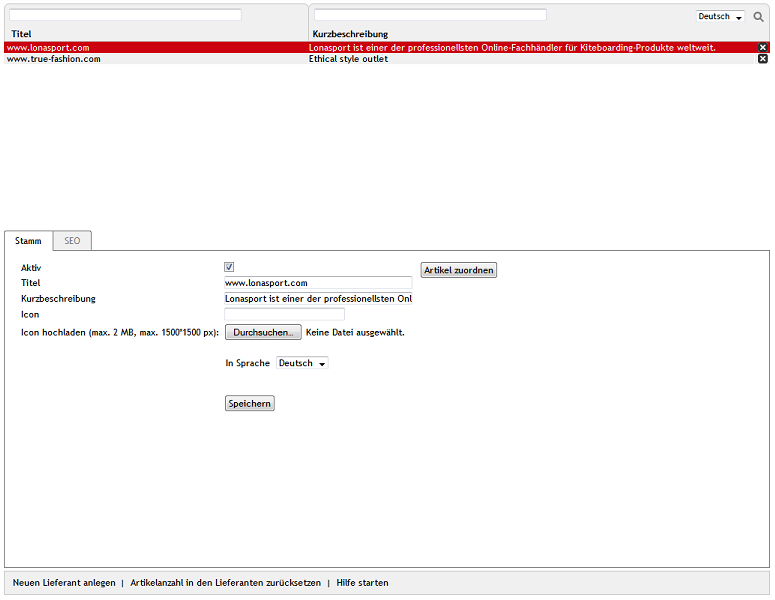
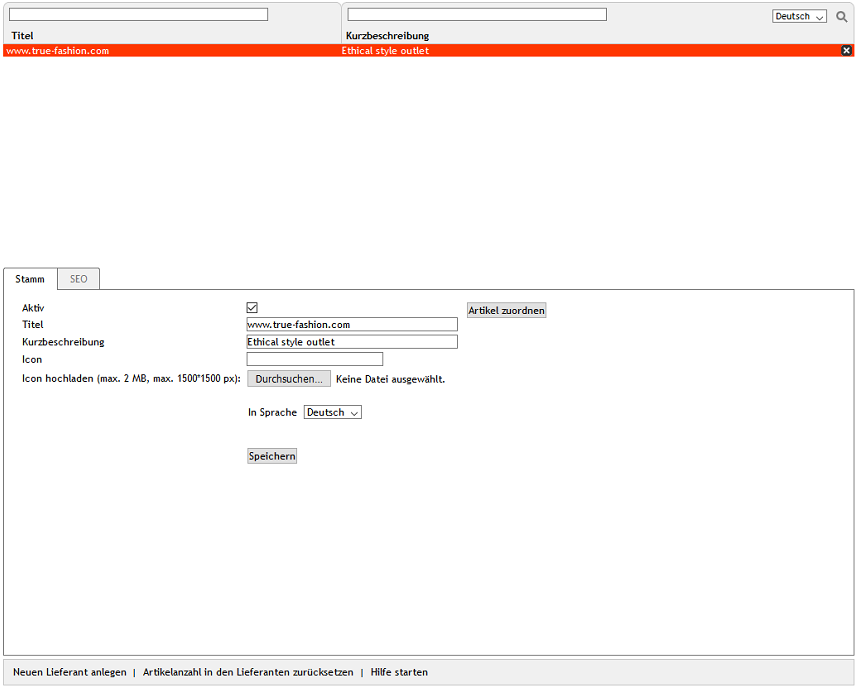
New screenshots for /einrichtung/lieferanten, removed www.lunasports.com

Changed region(s): [[0.0, 0.36, 1.0, 1.0], [0.0, 0.0, 1.0, 0.12]]

diff --git a/einrichtung/lieferanten/lieferanten.rst b/einrichtung/lieferanten/lieferanten.rst
@@ -1,19 +1,20 @@
 Lieferanten
 ===========
+
 Der OXID eShop bietet die Möglichkeit, Lieferanten zu verwalten. Artikel können diesen Lieferanten zugeordnet werden, um die Bezugsquellen der Waren zu dokumentieren. Im Administrationsbereich lassen sich Artikel nach der Lieferanten-ID filtern und anzeigen. Im Frontend des Shops gibt es keine Verwendung für die Lieferanten, denn Shopbetreiber sind mit Sicherheit nicht daran interessiert, diese Information öffentlich zu machen. In frühen Shopversionen gab es noch keine Hersteller, sondern diese wurden - nicht ganz korrekt - als Lieferanten geführt. Mit OXID eShop 4.0.1 wurde die Unterscheidung von Lieferanten und Hersteller umgesetzt.
 
 .. image:: ../../media/screenshots-de/oxaage01.png
    :alt: Lieferanten
-   :height: 503
+   :height: 523
    :width: 650
 
-Lieferanten können im Administrationsbereich unter :menuselection:`Stammdaten --> Lieferanten` bearbeitet werden. Es werden die Lieferantenliste und darunter der Eingabebereich für die Lieferanten angezeigt. Die Lieferantenliste enthält Titel und Kurzbeschreibung der Lieferanten. Nach Lieferanten kann unter Verwendung der Suchfelder gesucht werden. Geben Sie beispielsweise in das Suchfeld über :guilabel:`Titel` die Zeichenfolge \"nas\" ein, so wird nur der Lieferant www.lonasport.com aus den Demodaten gefunden und angezeigt.
+Lieferanten können im Administrationsbereich unter :menuselection:`Stammdaten --> Lieferanten` bearbeitet werden. Es werden die Lieferantenliste und darunter der Eingabebereich für die Lieferanten angezeigt. Die Lieferantenliste enthält Titel und Kurzbeschreibung der Lieferanten. Nach Lieferanten kann unter Verwendung der Suchfelder gesucht werden.
 
 Lieferanten lassen sich durch einen Klick auf das Löschsymbol am Ende der Zeile endgültig aus der Datenbank entfernen.
 
 Wird ein Lieferant aus der Lieferantenliste gewählt, werden dessen Informationen in den Eingabebereich geladen. Zum Erstellen eines neuen Lieferanten klicken Sie am unteren Bildschirmrand auf :guilabel:`Neuen Lieferant anlegen`. Weitere Funktionen in der Fußzeile sind :guilabel:`Artikelanzahl in den Lieferanten zurücksetzen` und :guilabel:`Hilfe starten`.
 
-.. hint:: Um in der Artikelliste nach Lieferanten suchen zu können, benötigen Sie die Lieferanten-ID. Diese wird Ihnen am unteren Bildschirmrand angezeigt, sobald Sie einen Lieferanten aus der Lieferantenliste auswählen. Mit der rechten Maustaste lässt sich dieser Link kopieren und die jeweilige Lieferanten-ID entnehmen. Beispiel für einen Link: javascript:top.oxid.admin.editThis('b564341636908e3e2d559eb1e690c344'); Die Lieferanten-ID für www.lonasport.com aus dem Demodaten ist b564341636908e3e2d559eb1e690c344.
+.. hint:: Um in der Artikelliste nach Lieferanten suchen zu können, benötigen Sie die Lieferanten-ID. Diese wird Ihnen am unteren Bildschirmrand angezeigt, sobald Sie einen Lieferanten aus der Lieferantenliste auswählen. Mit der rechten Maustaste lässt sich dieser Link kopieren und die jeweilige Lieferanten-ID entnehmen. Beispiel für einen Link: javascript:top.oxid.admin.editThis('a57c56e3ba710eafb2225e98f058d989'); Die Lieferanten-ID für www.true-fashion.com aus dem Demodaten ist a57c56e3ba710eafb2225e98f058d989.
 
 -----------------------------------------------------------------------------------------
 

diff --git a/einrichtung/lieferanten/registerkarte-stamm.rst b/einrichtung/lieferanten/registerkarte-stamm.rst
@@ -1,10 +1,11 @@
 Registerkarte Stamm
 ===================
+
 Die Registerkarte :guilabel:`Stamm` enthält die knappen Informationen und Einstellungen zum Lieferanten. Erstellen oder bearbeiten Sie hier den Lieferanten.
 
 .. image:: ../../media/screenshots-de/oxaagf01.png
    :alt: Lieferanten - Registerkarte Stamm
-   :height: 315
+   :height: 322
    :width: 650
 
 Mit der Sprachumstellung im unteren Teil des Eingabebereichs können die Informationen und Einstellungen zum Lieferanten auch direkt in einer weiteren Sprache bearbeitet werden.
